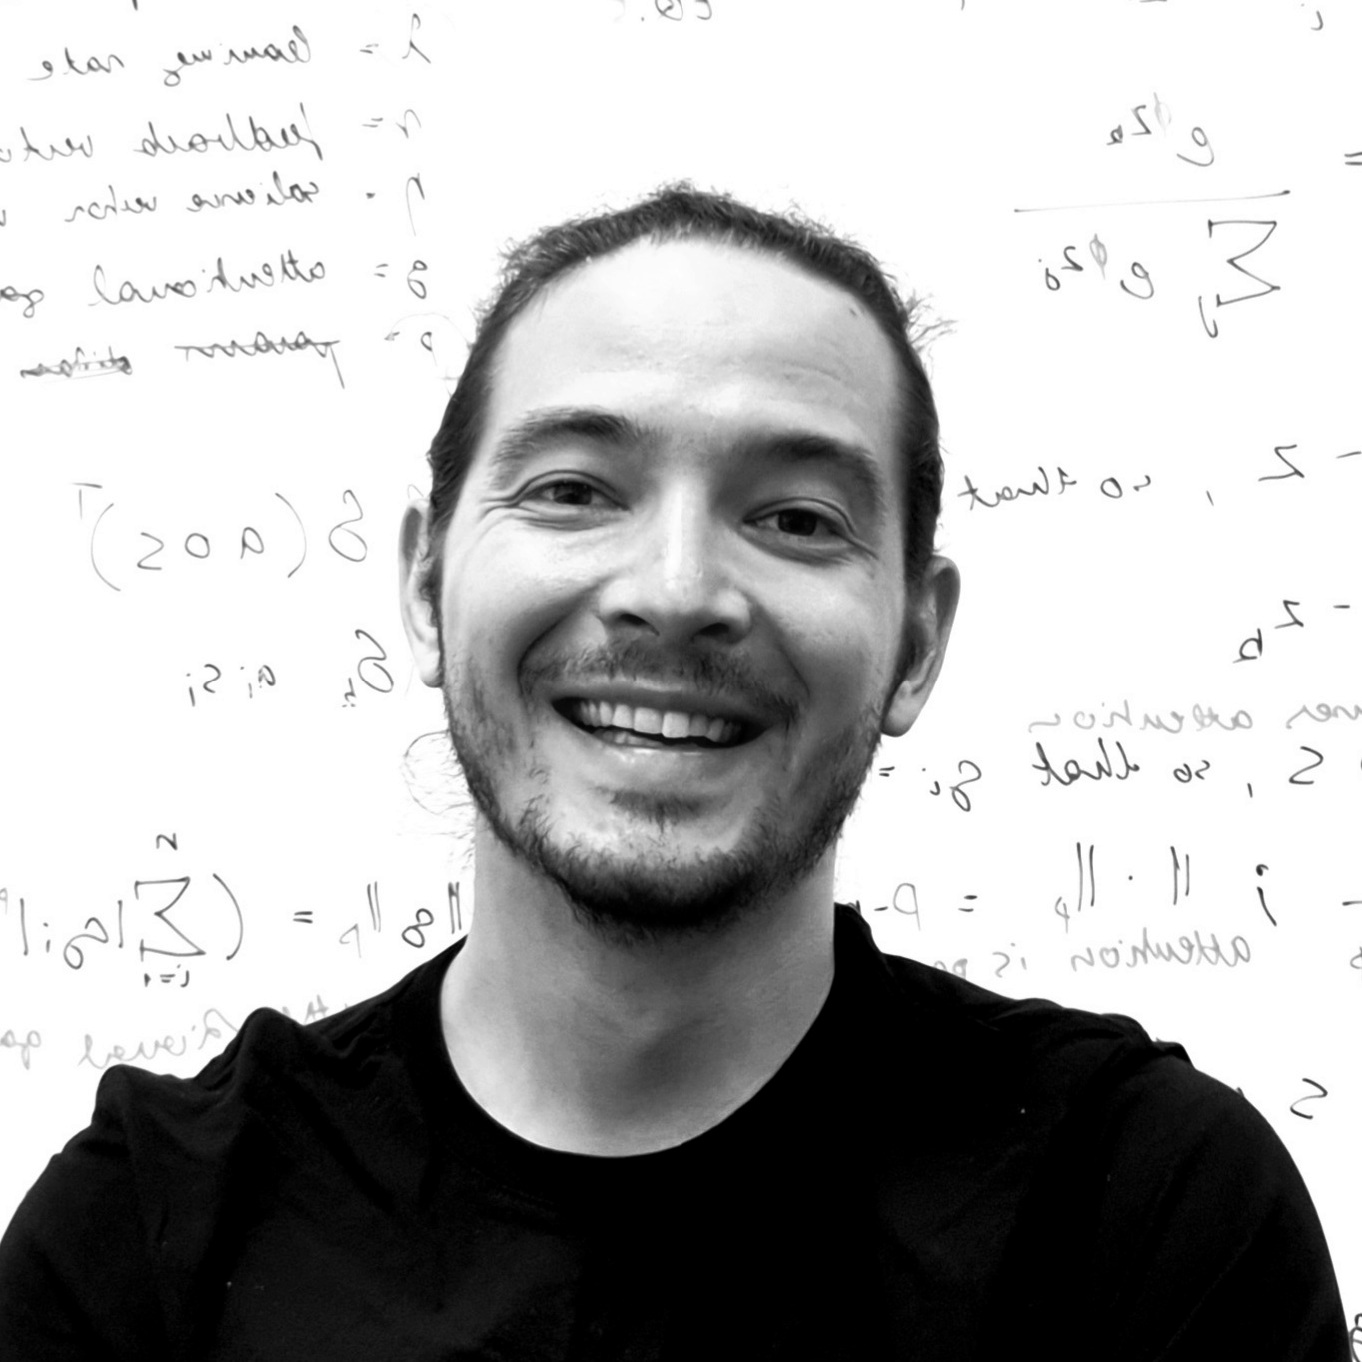
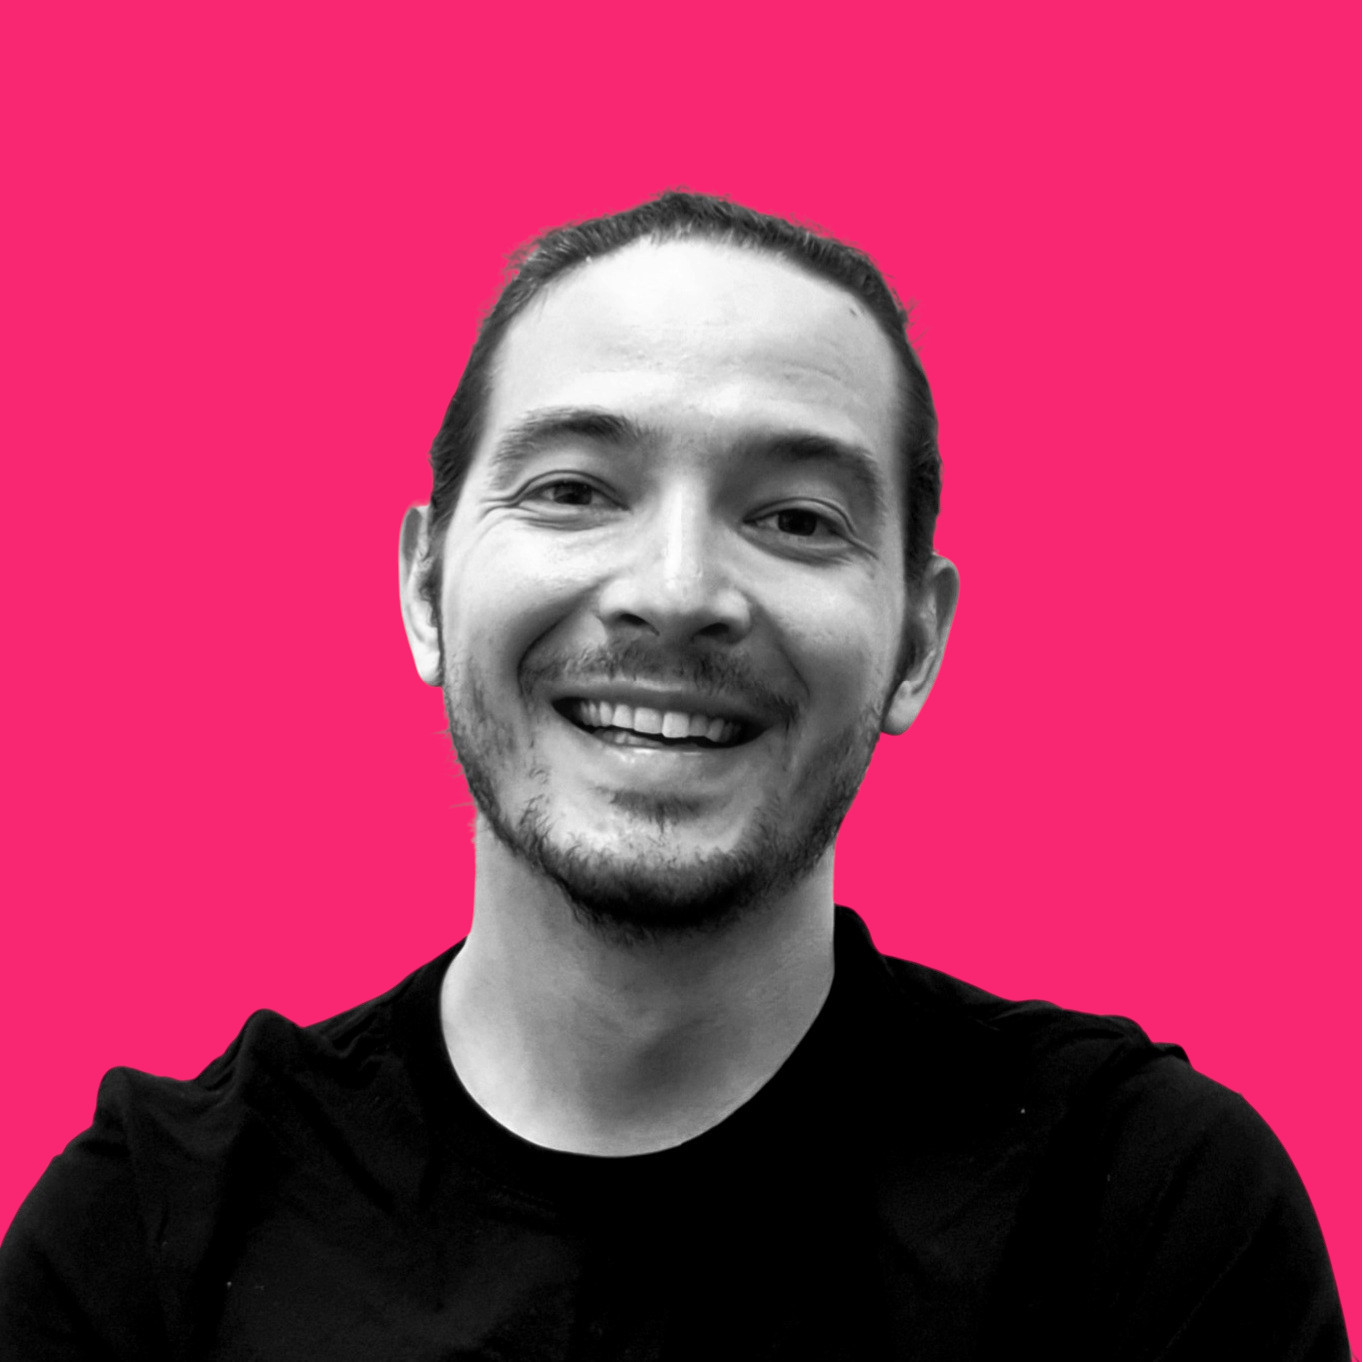
can't stop me now tweaks

diff --git a/_sass/_base.scss b/_sass/_base.scss
@@ -47,12 +47,12 @@ a, table.table a {
   margin-left: 2rem;
   margin-right: 2rem;
   width: 90%;
-  font-size: 5rem;
+  font-size: 4rem;
   .address {
     margin-bottom: 5px;
     margin-top: 5px;
     font-family: monospace;
-    font-size: 1rem;
+    font-size: 1.25rem;
     text-align: center;
     p {
       display: inline-block;
@@ -73,7 +73,7 @@ a, table.table a {
 @media (min-width: 576px) {
   .profile {
     margin-left: 2rem;
-    width: 40%;
+    width: 50%;
 
     .address {
       p { display: block; }
@@ -83,7 +83,10 @@ a, table.table a {
 
 .post {
   font-size: 1.25rem;
+  line-height: normal;
   margin: auto;
+  text-align: justify;
+  width: 90%;
 }
 
 .post-description {
@@ -106,7 +109,6 @@ a, table.table a {
   border-bottom: 1px dotted $grey-color-dark;
   background-color: var(--global-bg-color);
   opacity: 1;
-  background-image: linear-gradient(135deg, #F05F57 10%, #360940 100%);
 }
 
 * {
@@ -127,27 +129,15 @@ a, table.table a {
     font-size: 1.5rem;
   }
   .navbar-nav .nav-item .nav-link {
-    border-radius: 15px;
-    padding: 0.50em;
-    margin-left: 0.15em;
-    margin-right: 0.15em;
-    margin-bottom: 0.15em;
-    //transition-duration: 0.4s;
-    
-
-    
+    padding: 10px;
+    margin: 10px;
     font-size: 1.25rem;
-    font-weight: 400;
-    color: whitesmoke;
-    cursor: pointer;
-    text-align:center;
-    border: none;
-    background-size: 300% 100%;
-
-    moz-transition: all .4s ease-in-out;
-    -o-transition: all .4s ease-in-out;
-    -webkit-transition: all .4s ease-in-out;
-    transition: all .4s ease-in-out;
+    text-decoration: none;
+    color: #333;
+    border: 2px solid #333;
+    text-align: center;
+    transition: all .35s;
+    
     &:hover {
       color: whitesmoke;
       background-color: #222222;
@@ -173,15 +163,17 @@ a, table.table a {
     padding-bottom: 0;
     padding-top: 0;
     font-size: 2rem;
-    color: whitesmoke;
+    
     a {
       i::before {
-        color: whitesmoke;
+        color: black;
         -webkit-transition: all 0.2s ease-in-out;
+        text-shadow: 0 4px 15px 0 rgba(252, 104, 110, 0.75);;
+
       }
       &:hover {
         i::before {
-          color: black;
+          color: rgba(252, 104, 110, 0.75);
         }
       }
     }
@@ -356,8 +348,6 @@ footer.sticky-bottom {
 .projects {
   .card-item {
     width: auto;
-    margin-bottom: 10px;
-
     a {
       text-decoration: none;
     }
@@ -370,6 +360,7 @@ footer.sticky-bottom {
     .card {
       img {
         width: 100%;
+        padding: 50px;
       }
     }
   }
@@ -530,6 +521,16 @@ footer.sticky-bottom {
     }
   }
 }
+
+
+// repositories
+
+@media (min-width: 768px) {
+  .repo {
+    max-width: 50%;
+  }
+}
+
 
 // Rouge Color Customization
 figure.highlight {

diff --git a/_includes/head.html b/_includes/head.html
@@ -23,6 +23,8 @@
 <link rel="stylesheet" href="https://cdnjs.cloudflare.com/ajax/libs/font-awesome/{{ site.fontawesome.version }}/css/all.min.css"  integrity="{{ site.fontawesome.integrity }}" crossorigin="anonymous">
 <link rel="stylesheet" href="https://cdnjs.cloudflare.com/ajax/libs/academicons/{{ site.academicons.version }}/css/academicons.min.css" integrity="{{ site.academicons.integrity }}" crossorigin="anonymous">
 <link rel="stylesheet" type="text/css" href="https://fonts.googleapis.com/css?family=Roboto:300,400,500,700|Roboto+Slab:100,300,400,500,700|Material+Icons">
+<!-- Place this tag in your head or just before your close body tag. -->
+<script async defer src="https://buttons.github.io/buttons.js"></script>
 
 <!-- Code Syntax Highlighting -->
 <link rel="stylesheet" href="https://gitcdn.link/repo/jwarby/jekyll-pygments-themes/master/{{ site.highlight_theme }}.css" />

diff --git a/_includes/header.html b/_includes/header.html
@@ -5,7 +5,7 @@
     <div class="container">
       {% if page.title != "about" %}
       <a class="navbar-brand title font-weight-lighter" href="{{ site.baseurl | prepend: site.url }}/">
-       {% if site.title == "blank" %}<span class="font-weight-bold">{{ site.first_name }}</span> {{ site.middle_name }}  {{ site.last_name }}{% else %}{{ site.title }}{% endif %}
+       {% if site.title == "blank" %}<span class="font-weight-bold"> {{ site.first_name }} {{ site.middle_name }}  {{ site.last_name }}{% else %}{{ site.title }} </span> {% endif %}
       </a>
       {% elsif site.enable_navbar_social %}
         <!-- Social Icons -->

diff --git a/_includes/repository/repo.html b/_includes/repository/repo.html
@@ -1,0 +1,13 @@
+{% assign repo_url =  include.repository | split: '/' %}
+
+{% if site.data.repositories.github_users contains repo_url.first %}
+  {% assign show_owner = false %}
+{% else %}
+  {% assign show_owner = true %}
+{% endif %}
+
+<div class="repo p-2 text-center">
+  <a href="https://github.com/{{ include.repository }}">
+    <img class="repo-img-light w-100" alt="{{ include.repository }}" src="https://github-readme-stats.vercel.app/api/pin/?username={{ repo_url.first }}&repo={{ repo_url.last }}&theme={{ site.repo_theme_dark }}&show_owner={{ show_owner }}">
+  </a>
+</div>

diff --git a/_layouts/bib.html b/_layouts/bib.html
@@ -5,7 +5,7 @@
         <div class="col-sm-2 {% if entry.preview %}preview{% else %}abbr{% endif %}">
         {%- if entry.preview -%}
           {% if entry.preview contains '://' -%}
-          <img class="preview z-depth-1 rounded" src="{{ entry.preview }}">
+          <img class="preview z-depth-1 rounded" src="{{ entry.preview }} style='padding-right:10px;'">
           {%- else -%}
           <img class="preview z-depth-1 rounded" src="{{ entry.preview | prepend: '/assets/img/publication_preview/' | relative_url }}">
           {%- endif -%}

diff --git a/_layouts/about.html b/_layouts/about.html
@@ -1,14 +1,12 @@
 ---
 layout: default
 ---
-
 <div class="post">
 
   <header class="post-header">
     <h1 class="post-title">
      {% if site.title == "blank" %}<span class="font-weight-bold">{{ site.first_name }}</span> {{ site.middle_name }} {{ site.last_name }}{% else %}{{ site.title }}{% endif %}
     </h1>
-     <p class="desc">{{ page.description }}</p>
   </header>
 
   <article>

diff --git a/_includes/repository/repo_user.html b/_includes/repository/repo_user.html
@@ -1,0 +1,5 @@
+<div class="repo p-2 text-center">
+  <a href="https://github.com/{{ include.username }}">
+    <img class="repo-img-light w-100" alt="{{ include.username }}" src="https://github-readme-stats.vercel.app/api/?username={{ include.username }}&theme={{ site.repo_theme_light }}&show_icons=true">
+  </a>
+</div>

diff --git a/_layouts/page.html b/_layouts/page.html
@@ -1,10 +1,11 @@
 ---
 layout: default
 ---
+<br>
+
 <div class="post">
 
   <header class="post-header">
-    <h1 class="post-title">{{ page.title }}</h1>
     <p class="post-description">{{ page.description }}</p>
   </header>
 

diff --git a/_pages/software.md b/_pages/software.md
@@ -2,58 +2,33 @@
 layout: page
 title: software
 permalink: /software/
-description: I build software for research and data analysis.
+description: I build software for research and data analysis. All of them are open-source and free to use. You will never be asked to pay for any of these. Scientist should not be charged for using tools to push what we know further <i class="far fa-smile"></i>
 nav: true
-horizontal: false
+nav_order: 3
 ---
 
 <script data-name="BMC-Widget" data-cfasync="false" src="https://cdnjs.buymeacoffee.com/1.0.0/widget.prod.min.js" data-id="lenarddome" data-description="Support me on Buy me a coffee!" data-message="" data-color="#FFDD00" data-position="Right" data-x_margin="18" data-y_margin="18"></script>
 
-<div class="projects">
-  {% if site.enable_project_categories and page.display_categories %}
-  <!-- Display categorized projects -->
-    {% for category in page.display_categories %}
-      <h2 class="category">{{category}}</h2>
-      {% assign categorized_projects = site.software | where: "category", category %}
-      {% assign sorted_projects = categorized_projects | sort: "importance" %}
-      <!-- Generate cards for each project -->
-      {% if page.horizontal %}
-        <div class="container">
-          <div class="row row-cols-2">
-          {% for project in sorted_projects %}
-            {% include projects_horizontal.html %}
-          {% endfor %}
-          </div>
-        </div>
-      {% else %}
-        <div class="grid">
-          {% for project in sorted_projects %}
-            {% include projects.html %}
-          {% endfor %}
-        </div>
-      {% endif %}
-    {% endfor %}
+<!-- Place this tag where you want the button to render. -->
+<a class="github-button" href="https://github.com/lenarddome" data-size="large" data-show-count="true" aria-label="Follow @lenarddome on GitHub">Follow @lenarddome</a>
 
-  {% else %}
-  <!-- Display projects without categories -->
-    {% assign sorted_projects = site.software | sort: "importance" %}
-    <!-- Generate cards for each project -->
-    {% if page.horizontal %}
-      <div class="container">
-        <div class="row row-cols-2">
-        {% for project in sorted_projects %}
-          {% include projects_hrz.html %}
-        {% endfor %}
-        </div>
-      </div>
-    {% else %}
-      <div class="grid">
-        {% for project in sorted_projects %}
-          {% include projects.html %}
-        {% endfor %}
-      </div>
-    {% endif %}
-
-  {% endif %}
-
+{% if site.data.repositories.github_users %}
+<div class="repositories d-flex flex-wrap flex-md-row flex-column justify-content-between align-items-center">
+  {% for user in site.data.repositories.github_users %}
+    {% include repository/repo_user.html username=user %}
+  {% endfor %}
 </div>
+{% endif %}
+
+---
+
+## GitHub Software Repositories
+
+{% if site.data.repositories.github_repos %}
+<div class="repositories d-flex flex-wrap flex-md-row flex-column align-items-left">
+  {% for repo in site.data.repositories.github_repos %}
+    {% include repository/repo.html repository=repo %}
+  {% endfor %}
+</div>
+{% endif %}
+

diff --git a/_pages/about.md b/_pages/about.md
@@ -15,11 +15,12 @@ selected_papers: true # includes a list of papers marked as selected={true}
 social: true  # includes social icons at the bottom of the page
 ---
 
+<br>
 
 <script data-name="BMC-Widget" data-cfasync="false" src="https://cdnjs.buymeacoffee.com/1.0.0/widget.prod.min.js" data-id="lenarddome" data-description="Support me on Buy me a coffee!" data-message="" data-color="#FFDD00" data-position="Right" data-x_margin="18" data-y_margin="18"></script>
 
-## **I am a Psychology PhD in the [Computational Modelling Lab](https://www.plymouth.ac.uk/research/psychology/brain-research-and-imaging-centre/the-computational-modelling-laboratory) at the [School of Psychology, University of Plymouth](https://www.plymouth.ac.uk/schools/psychology).**
+**I am a Psychology PhD in the [Computational Modelling Lab](https://www.plymouth.ac.uk/research/psychology/brain-research-and-imaging-centre/the-computational-modelling-laboratory) at the [School of Psychology, University of Plymouth](https://www.plymouth.ac.uk/schools/psychology).**
 
 My primary research focuses on **computational modelling of categorization and human behavioural complexity**. I am also interested in connecting this to work to impression formation and **social categorization**.
 
-I develop software for my own research and package them as free and open-source software. The finished products are usually all-purpose implementations of the tools that I am using, so everyone can make use of them in their own research. If you are using anything I developed, please consider supporting me by buying me a coffee. Your contribution will help me continue sharing these tools. All needs to be done is to click on the coffee icon at the right bottom corner. Code is made from coffee after all ☕
+I develop software for my own research and package them as free and open-source software. The finished products are usually all-purpose implementations of the tools that I am using. If you are using anything I developed, please consider supporting me by buying me a coffee. All needs to be done is to click on the coffee icon at the right bottom corner.

diff --git a/_pages/teaching.md b/_pages/teaching.md
@@ -39,7 +39,7 @@ nav: true
       <div class="container">
         <div class="row row-cols-2">
         {% for project in sorted_projects %}
-          {% include projects_hrz.html %}
+          {% include projects_horizontal.html %}
         {% endfor %}
         </div>
       </div>
